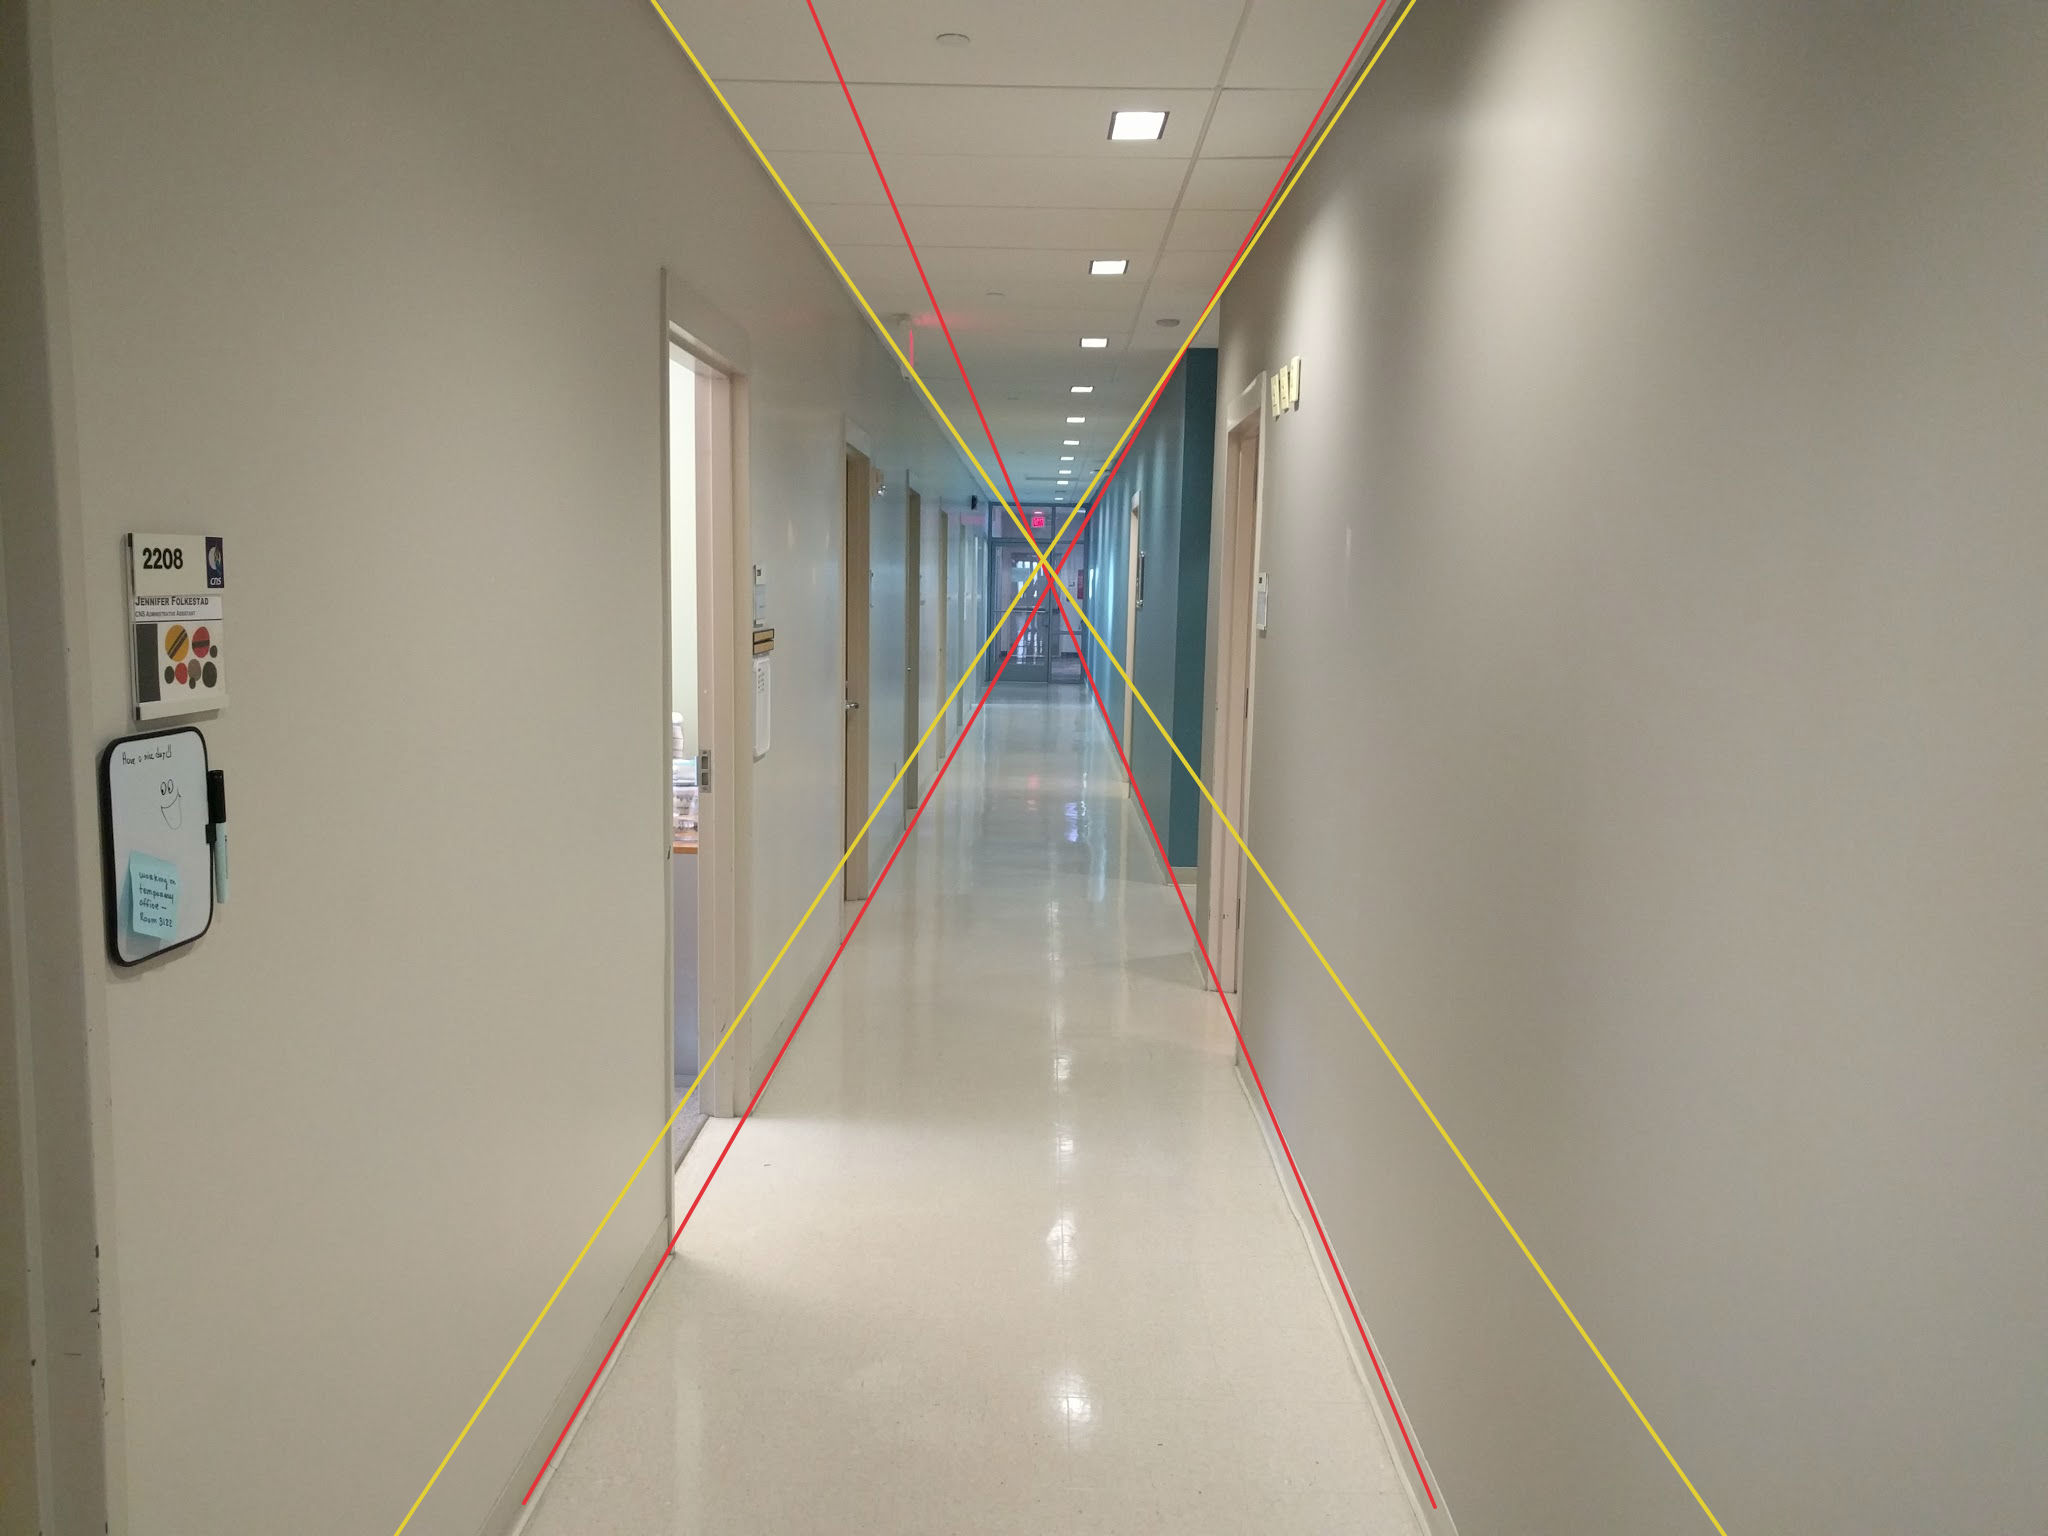
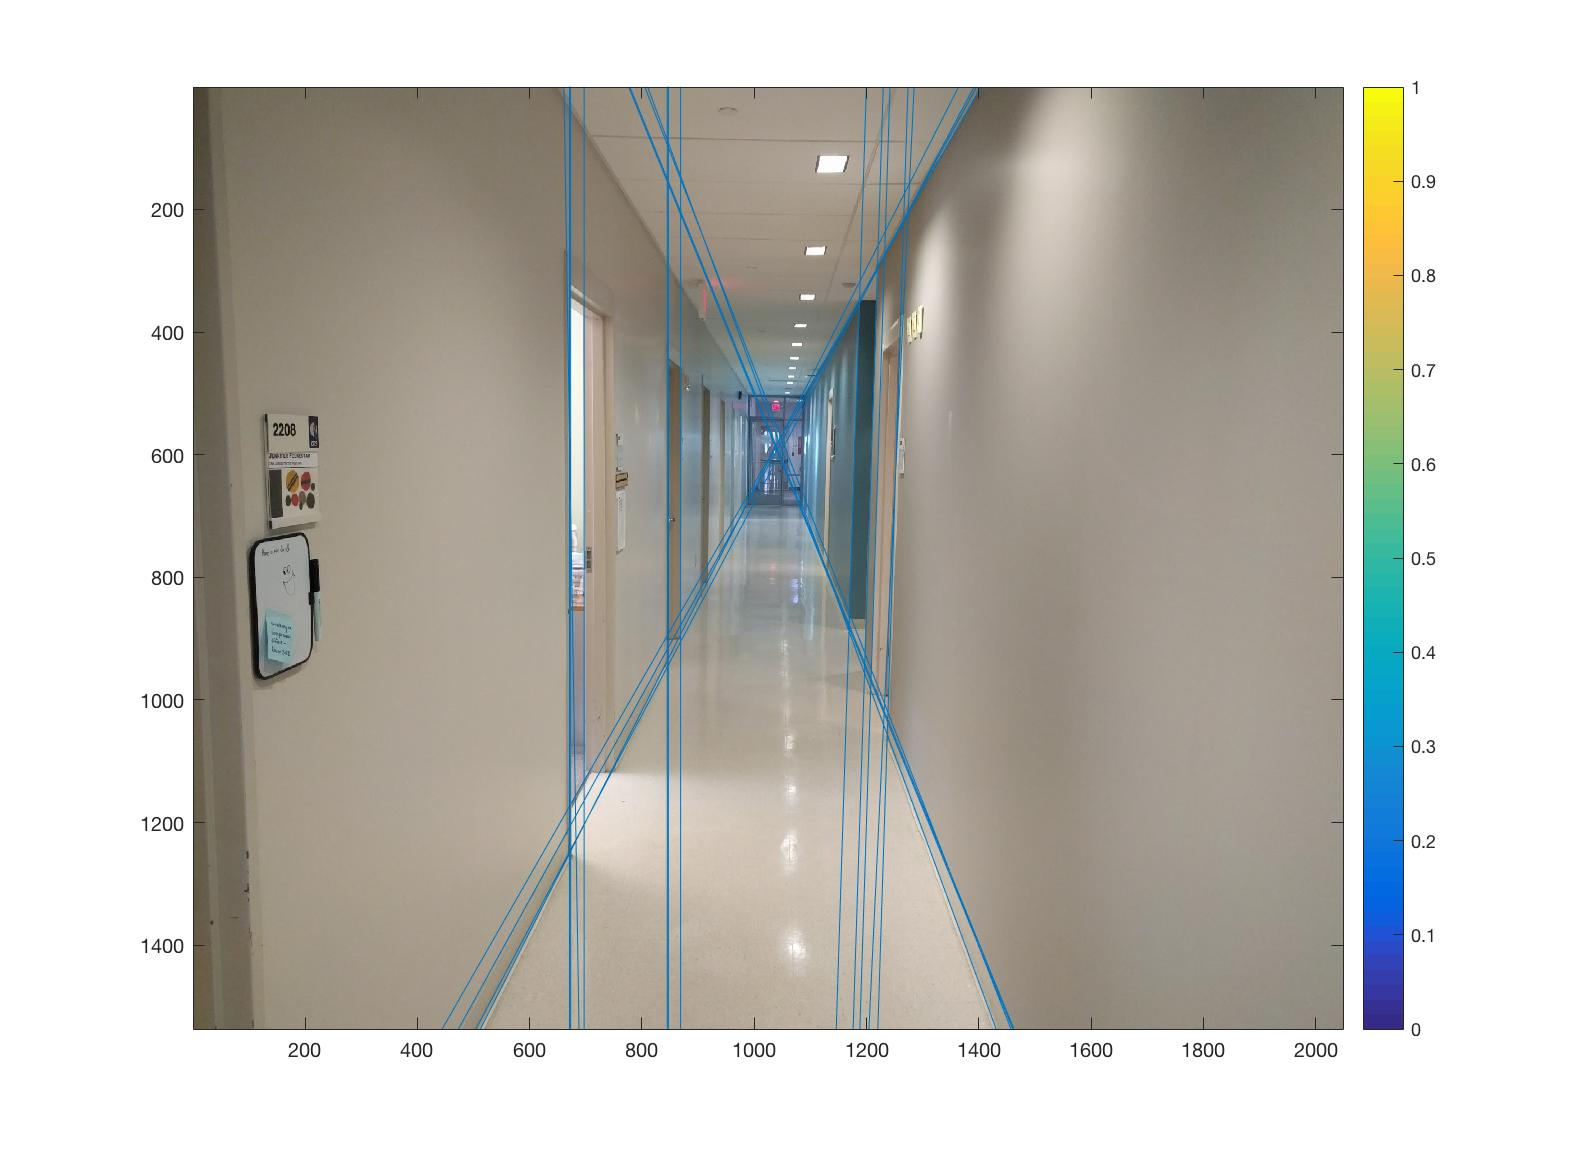
final commit

diff --git a/houghT.m b/houghT.m
@@ -1,11 +1,12 @@
 function houghT(origImage, binImage, HT, dSampling, thetaSampling)
 % INPUTS
 %   origImage       - original Image for display purposes
-%   binImage        - binary Image for which hough transform is to be computed
+%   binImage        - binary Image for which hough transform 
+%                                                     is to be computed
 %   HT              - Hough Threshold
 %   dSampling       - the interval in which d should be sampled
 %   thetaSampling   - the interval in which theta should be sampled
-    [width, height] = size(binImage);
+    [height, width] = size(binImage);
     dMax = round(sqrt(height * height + width * width));
     d = (-dMax):dSampling:dMax;
     theta = degtorad(0:thetaSampling:180);
@@ -15,20 +16,33 @@ function houghT(origImage, binImage, HT, dSampling, thetaSampling)
     numThetas = szTheta(1,2);
     rangeMatrix = zeros(szD(1,2), szTheta(1,2));
 
-      for x = 1:width
-          for y = 1:height
-              if binImage(x,y) > 0
-                  for thetaItr = 1:szTheta(1,2)
-                      dTemp = x * cos(theta(thetaItr)) + y * sin(theta(thetaItr));
-                      dTemp = dTemp;
-                      [~, dIdx] = min(abs(d - dTemp));
-                      rangeMatrix(dIdx, thetaItr) = rangeMatrix(dIdx, thetaItr) + 1;
-                  end
-              end
-          end
-      end
+      count = 0;
+%        for x = 1:width
+%            for y = 1:height
+%                if binImage(y, x) > 0
+%                    for thetaItr = 1:szTheta(1,2)
+%                        dTemp = y * cos(theta(thetaItr)) + x * sin(theta(thetaItr));
+%                        dTemp = dTemp;
+%                        [~, dIdx] = min(abs(d - dTemp));
+%                        rangeMatrix(dIdx, thetaItr) = rangeMatrix(dIdx, thetaItr) + 1;
+%                    end
+%                end
+%            end
+%        end
+    [xIndicies, yIndicies] = find(binImage);
+
+    %Preallocate space for the accumulator array
+    numEdgePixels = numel(xIndicies);
+    accumulator = zeros(numEdgePixels,numThetas);
+    cosine = (0:height-1)'*cos(theta); %Matrix Outerproduct  
+    sine = (0:width-1)'*sin(theta); %Matrix Outerproduct
+
+    accumulator((1:numEdgePixels),:) = cosine(xIndicies,:) + sine(yIndicies,:);
+    for i = (1:numThetas)
+        rangeMatrix(:,i) = hist(accumulator(:,i),d);
+    end
     if HT == -1
-        HT = 0.75 * max(rangeMatrix(:));
+        HT = 0.5 * max(rangeMatrix(:));
     end
     figure(1);
     imagesc(origImage);
@@ -36,12 +50,14 @@ function houghT(origImage, binImage, HT, dSampling, thetaSampling)
     for i = 1:szD(1,2)
         for j = 1:szTheta(1,2)
             if rangeMatrix(i, j) > HT
+                count = count + 1;
                 dVal = d(i);
                 thVal = theta(j);
                 x = 0:(width + 1);
-                y = (dVal - x * cos(thVal)) / sin(thVal);
+                y = (dVal - x * sin(thVal)) / cos(thVal);
                 line(x, y);
             end
         end
     end
+    count
 end

diff --git a/mainHough.m b/mainHough.m
@@ -12,13 +12,25 @@ houghT(img, img, HT, dSampling, thetaSampling);
 
 
 laneImage = imread('lanes.png');
-binImage = sobelOperator(laneImage, 160);
-houghT(laneImage, binImage, -1, 1, 1);
+binImage = sobelOperator(laneImage, 170);
+binImage(:,1:10) = 0;
+binImage(1:10,:) = 0;
+binImage(:,(end-10):end) = 0;
+binImage((end-10):end,:) = 0;
+houghT(laneImage, binImage, -1, 2, 1);
 
 commons1 = imread('mscommons1.jpeg');
-binImage = sobelOperator(commons1, 160);
-houghT(commons1, binImage, -1, 2, 0.5);
+binImage = sobelOperator(commons1, 50);
+binImage(:,1:10) = 0;
+binImage(1:10,:) = 0;
+binImage(:,(end-10):end) = 0;
+binImage((end-10):end,:) = 0;
+houghT(commons1, binImage, -1, 1, 1);
 
 commons2 = imread('mscommons2.jpeg');
-binImage = sobelOperator(commons2, 160);
+binImage = sobelOperator(commons2, 80);
+binImage(:,1:10) = 0;
+binImage(1:10,:) = 0;
+binImage(:,(end-10):end) = 0;
+binImage((end-10):end,:) = 0;
 houghT(commons2, binImage, -1, 2, 0.5);

diff --git a/sobelOperator.m b/sobelOperator.m
@@ -7,8 +7,8 @@ function binImage = sobelOperator(I, threshold)
 sobelX = [-1 0 1; -1 0 1; -1 0 1];
 sobelY = sobelX';
 imgGray = rgb2gray(I);
-Ix = conv2(imgGray,sobelX);
-Iy = conv2(imgGray, sobelY);
+Ix = conv2(imgGray, sobelX, 'same');
+Iy = conv2(imgGray, sobelY, 'same');
 IMag = sqrt(Ix.^2 + Iy.^2);
 binImage = IMag > threshold;
 end
